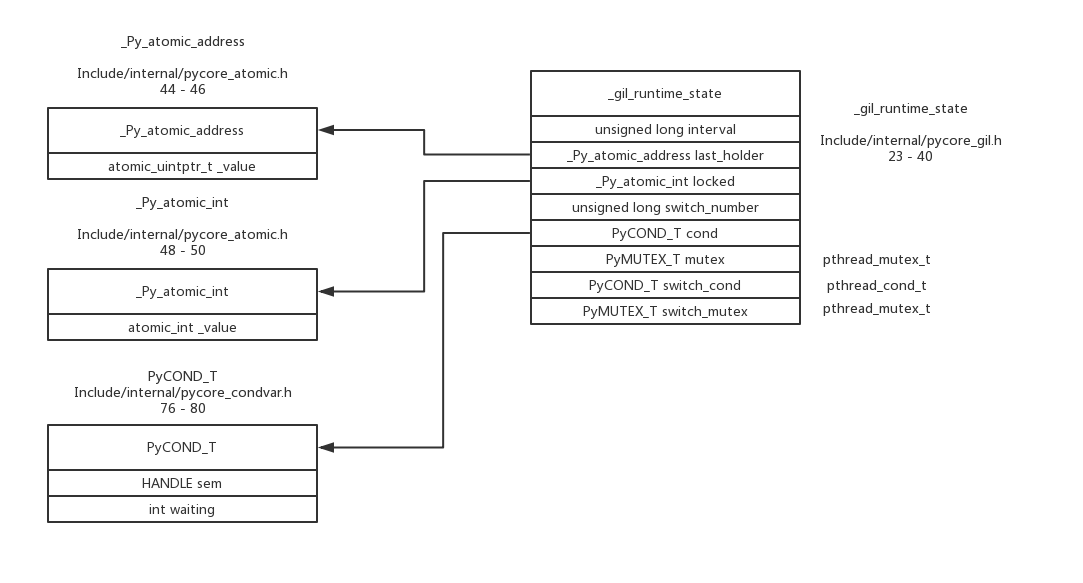
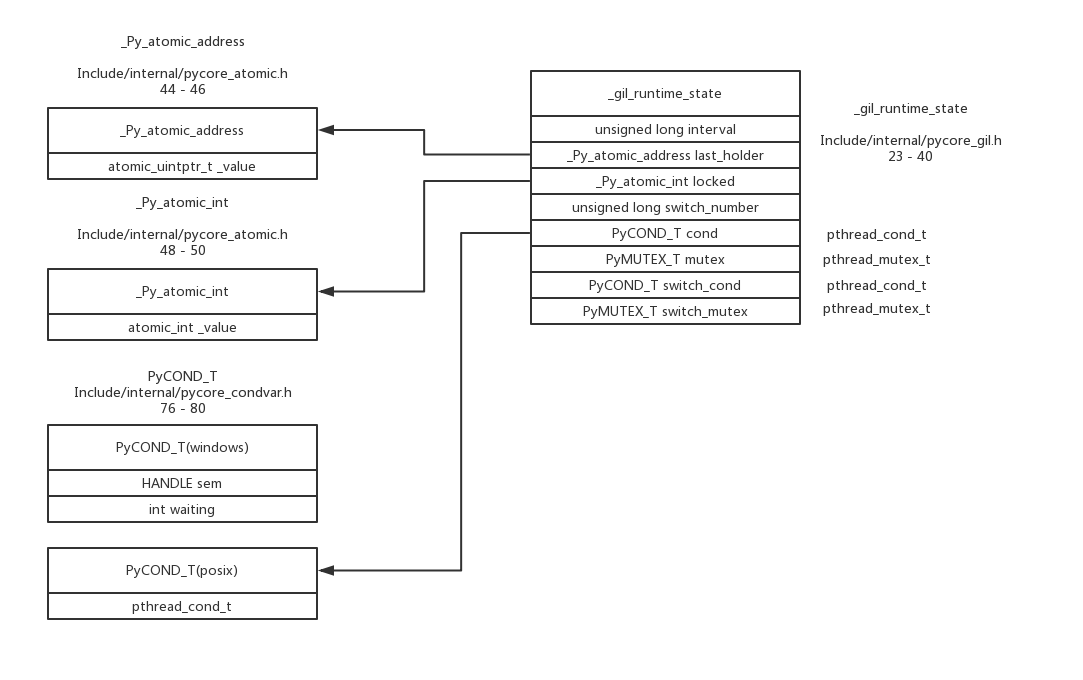
gil v0.2

diff --git a/Interpreter/gil/gil.md b/Interpreter/gil/gil.md
@@ -4,6 +4,7 @@
 
 * [related file](#related-file)
 * [memory layout](#memory-layout)
+* [create](#create)
 
 #### related file
 
@@ -17,18 +18,60 @@ this is the defination of the **Global Interpreter Lock**
 
 > In CPython, the global interpreter lock, or GIL, is a mutex that protects access to Python objects, preventing multiple threads from executing Python bytecodes at once. This lock is necessary mainly because CPython's memory management is not thread-safe. (However, since the GIL exists, other features have grown to depend on the guarantees that it enforces.)
 
-Due to some performance issue in multithreaded programs, the implementation of the **GIL** has changed a lot after python3.2
+thread scheduling before python3.2
 
-thread scheduling before python3.2 (screenshot from [Understanding the Python GIL(youtube video)](https://www.youtube.com/watch?v=Obt-vMVdM8s))
+basically, the **tick** is a counter for how many opcodes current thread executed continuously without releasing the **gil**
+
+if the current thread is running a CPU-bound task, it will release the **gil** and offer an opportunity for other thread to run for every 100 **ticks**
+
+if the current thread is running an IO-bound task, the **gil** will be relaesed manually if you call `sleep/recv/send(...etc)` even without count to 100 **ticks**
+
+you can call `sys.setcheckinterval()` to set other **tick** count value instead of 100
 
 ![old_gil](https://github.com/zpoint/CPython-Internals/blob/master/Interpreter/gil/old_gil.png)
+(picture from [Understanding the Python GIL(youtube)](https://www.youtube.com/watch?v=Obt-vMVdM8s))
+
+because the **tick** is not time-based, some thread might run far longer than other threads
+
+in multi-core machine, if two threads both running CPU-bound tasks, the os might schedule the two threads running on different cores, there might be a situation that one thread holding the **gil** executing it's task in it's **100 ticks cycle** in a core, while the thread in the other core wakes up preiodly try to acquire the **gil** but fail, spinning the CPU
+
+![gil_battle](https://github.com/zpoint/CPython-Internals/blob/master/Interpreter/gil/gil_battle.png)
+(picture from [Understanding the Python GIL(youtube)](https://www.youtube.com/watch?v=Obt-vMVdM8s))
+
+due to some performance issue in multi-core machine, the implementation of the **GIL** has changed a lot after python3.2
 
 thread scheduling after python3.2
 
+if there's only one thread, it can run forever without check and release **gil**
+
+if there're more than one threads, the thread currently blocking by the **gil** will wait or period of timeout and set the **gil_drop_request** to 1, and continue waiting, the thread currently holding the **gil** will release it if the **gil_drop_request** is set to 1, and thread currently blocking will be signaled and is able to acqure the **gil**
+
 ![new_gil](https://github.com/zpoint/CPython-Internals/blob/master/Interpreter/gil/new_gil.png)
+(picture from [Understanding the Python GIL(youtube)](https://www.youtube.com/watch?v=Obt-vMVdM8s))
+
+the thread set the **gil_drop_request** to 1 may not be the thread acquire the **gil**
+
+![new_gil2](https://github.com/zpoint/CPython-Internals/blob/master/Interpreter/gil/new_gil.png)
+(picture from [Understanding the Python GIL(youtube)](https://www.youtube.com/watch?v=Obt-vMVdM8s))
 
 for those who are interested in detail, please refer to [Understanding the Python GIL(article)](http://www.dabeaz.com/GIL/)
 
 ![git_layout](https://github.com/zpoint/CPython-Internals/blob/master/Interpreter/gil/gil_layout.png)
+
+#### create
+
+the python intepreter in a program written in C, every executable program written in C have a `main` function
+
+those `main` related functions are defined in `cpython/Modules/main.c`, you will find that the `main` related function does some inilialization for the intepreter status before execute the `main loop`, the `_gil_runtime_state` will be created and initialized in the inilialization
+
+	./python.exe
+    >>> import sys
+    >>> sys.getswitchinterval()
+    0.005
+
+interval is the suspend timeout before set the `gil_drop_request` microseconds
+
+![init](https://github.com/zpoint/CPython-Internals/blob/master/Interpreter/gil/init.png)
+
 
 
